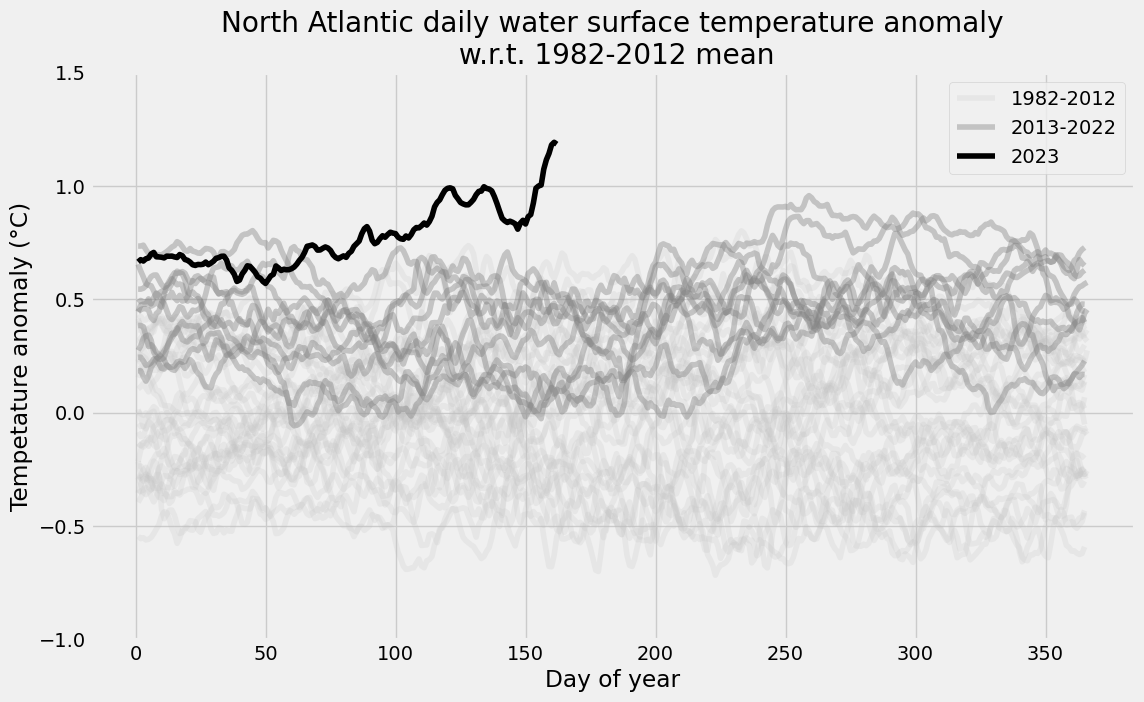
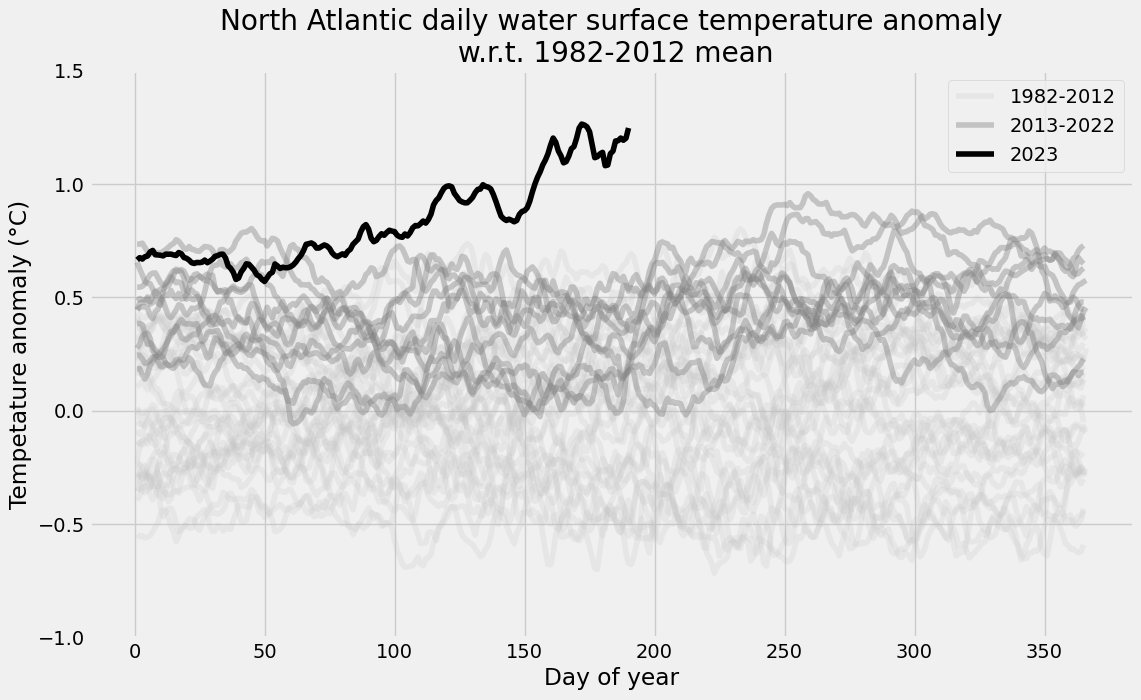
data update

diff --git a/_posts/2023-06-13-North-Atlantic-daily-water-surface-temperature.md b/_posts/2023-06-13-North-Atlantic-daily-water-surface-temperature.md
@@ -8,6 +8,8 @@ tags:
 - Pandas
 ---
 
+**Updated** July 11, 2023 data update
+
 Data source : [https://climatereanalyzer.org](https://climatereanalyzer.org/clim/sst_daily/json/oisst2.1_natlan1_sst_day.json) (NOAA Optimum Interpolation SST (OISST) dataset version 2.1)
 
 From the NOAA [website](https://www.ncei.noaa.gov/products/optimum-interpolation-sst):
@@ -240,3 +242,26 @@ _ = ax.set(
 <p align="center">
   <img width="1000" src="/img/2023-06-13_01/output_9_0.png" alt="output_9_0">
 </p>
+
+{% if page.comments %}
+<div id="disqus_thread"></div>
+<script>
+
+/**
+*  RECOMMENDED CONFIGURATION VARIABLES: EDIT AND UNCOMMENT THE SECTION BELOW TO INSERT DYNAMIC VALUES FROM YOUR PLATFORM OR CMS.
+*  LEARN WHY DEFINING THESE VARIABLES IS IMPORTANT: https://disqus.com/admin/universalcode/#configuration-variables*/
+/*
+var disqus_config = function () {
+this.page.url = PAGE_URL;  // Replace PAGE_URL with your page's canonical URL variable
+this.page.identifier = PAGE_IDENTIFIER; // Replace PAGE_IDENTIFIER with your page's unique identifier variable
+};
+*/
+(function() { // DON'T EDIT BELOW THIS LINE
+var d = document, s = d.createElement('script');
+s.src = 'https://aetperf-github-io-1.disqus.com/embed.js';
+s.setAttribute('data-timestamp', +new Date());
+(d.head || d.body).appendChild(s);
+})();
+</script>
+<noscript>Please enable JavaScript to view the <a href="https://disqus.com/?ref_noscript">comments powered by Disqus.</a></noscript>
+{% endif %}
